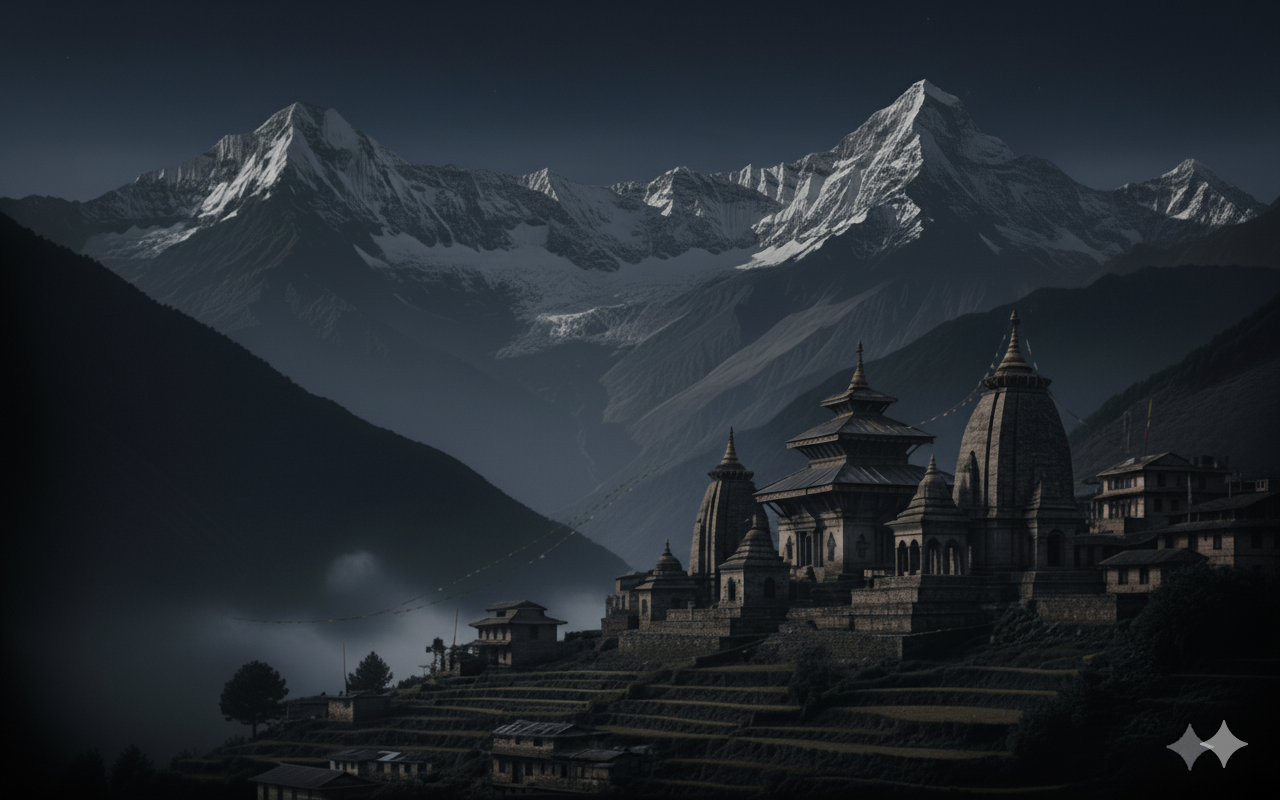
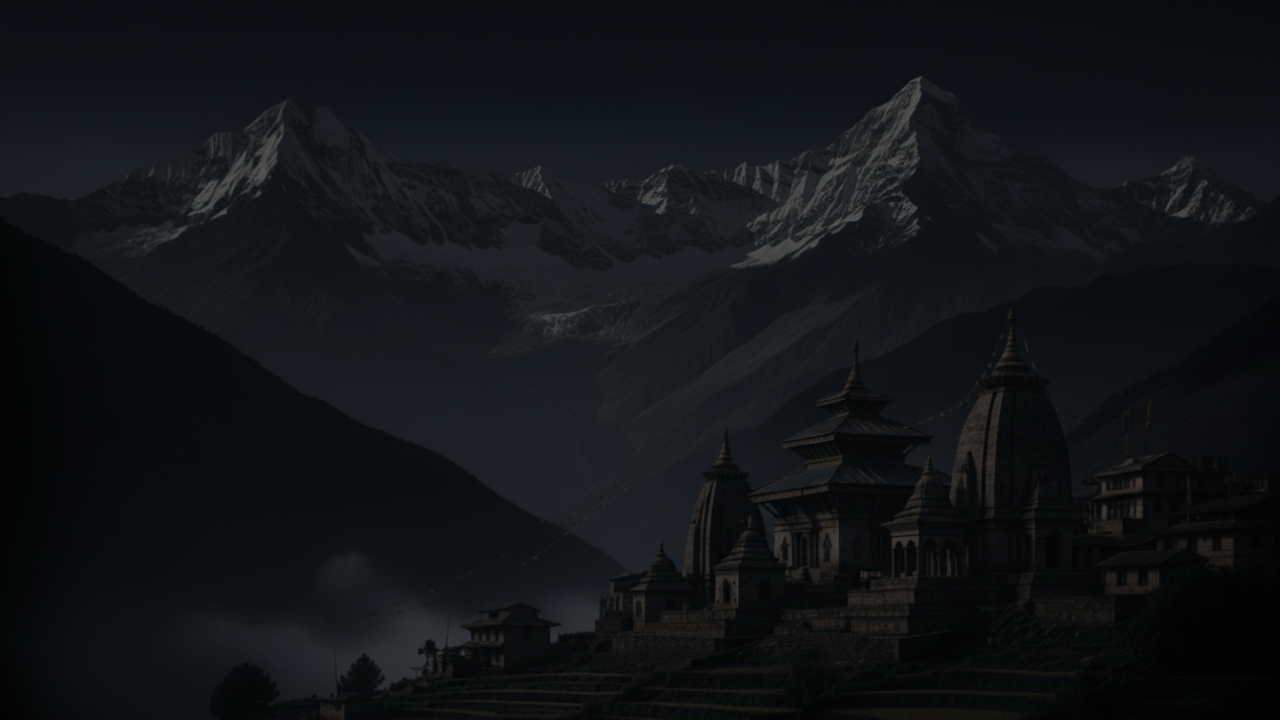
transparency_changed

diff --git a/index.html b/index.html
@@ -24,7 +24,7 @@
 
 <style>
 .ftco-section {
-  background-color: rgba(0, 0, 0, 0.69); /* White color with 80% opacity */
+  background-color: rgba(0, 0, 0, 0.071); /* White color with 80% opacity */
 }
 
 /* New CSS to add a background to the main body/page */
